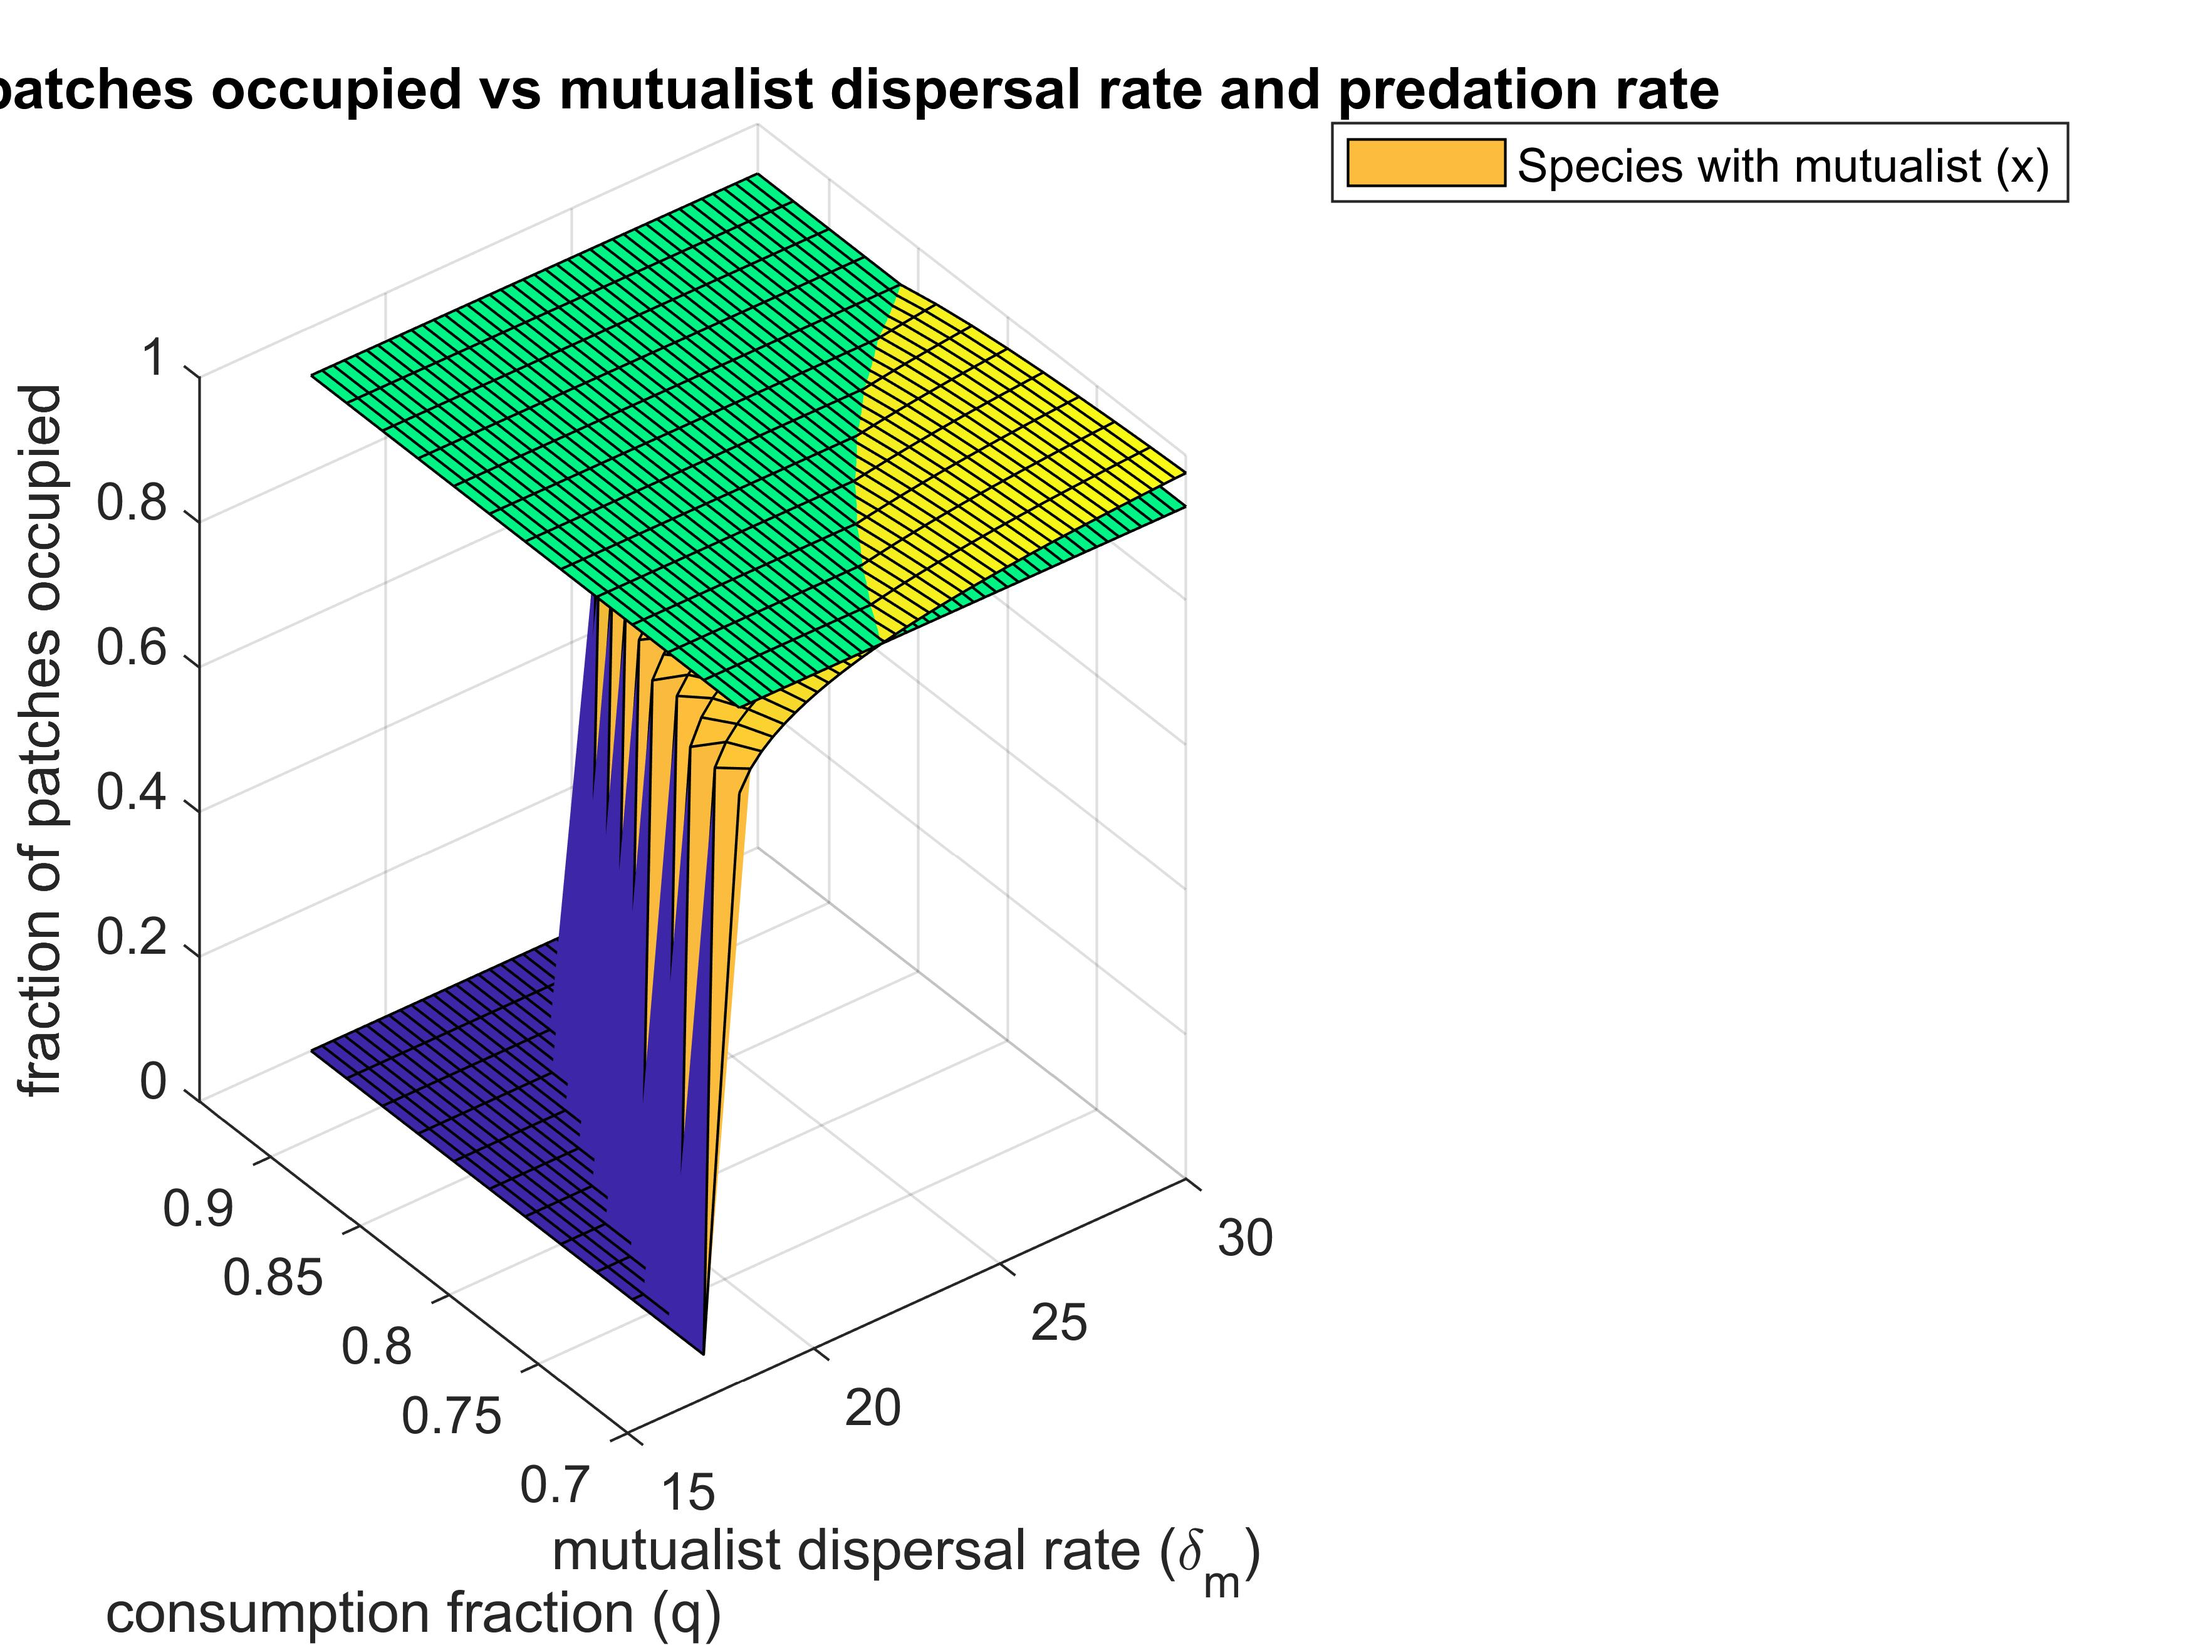
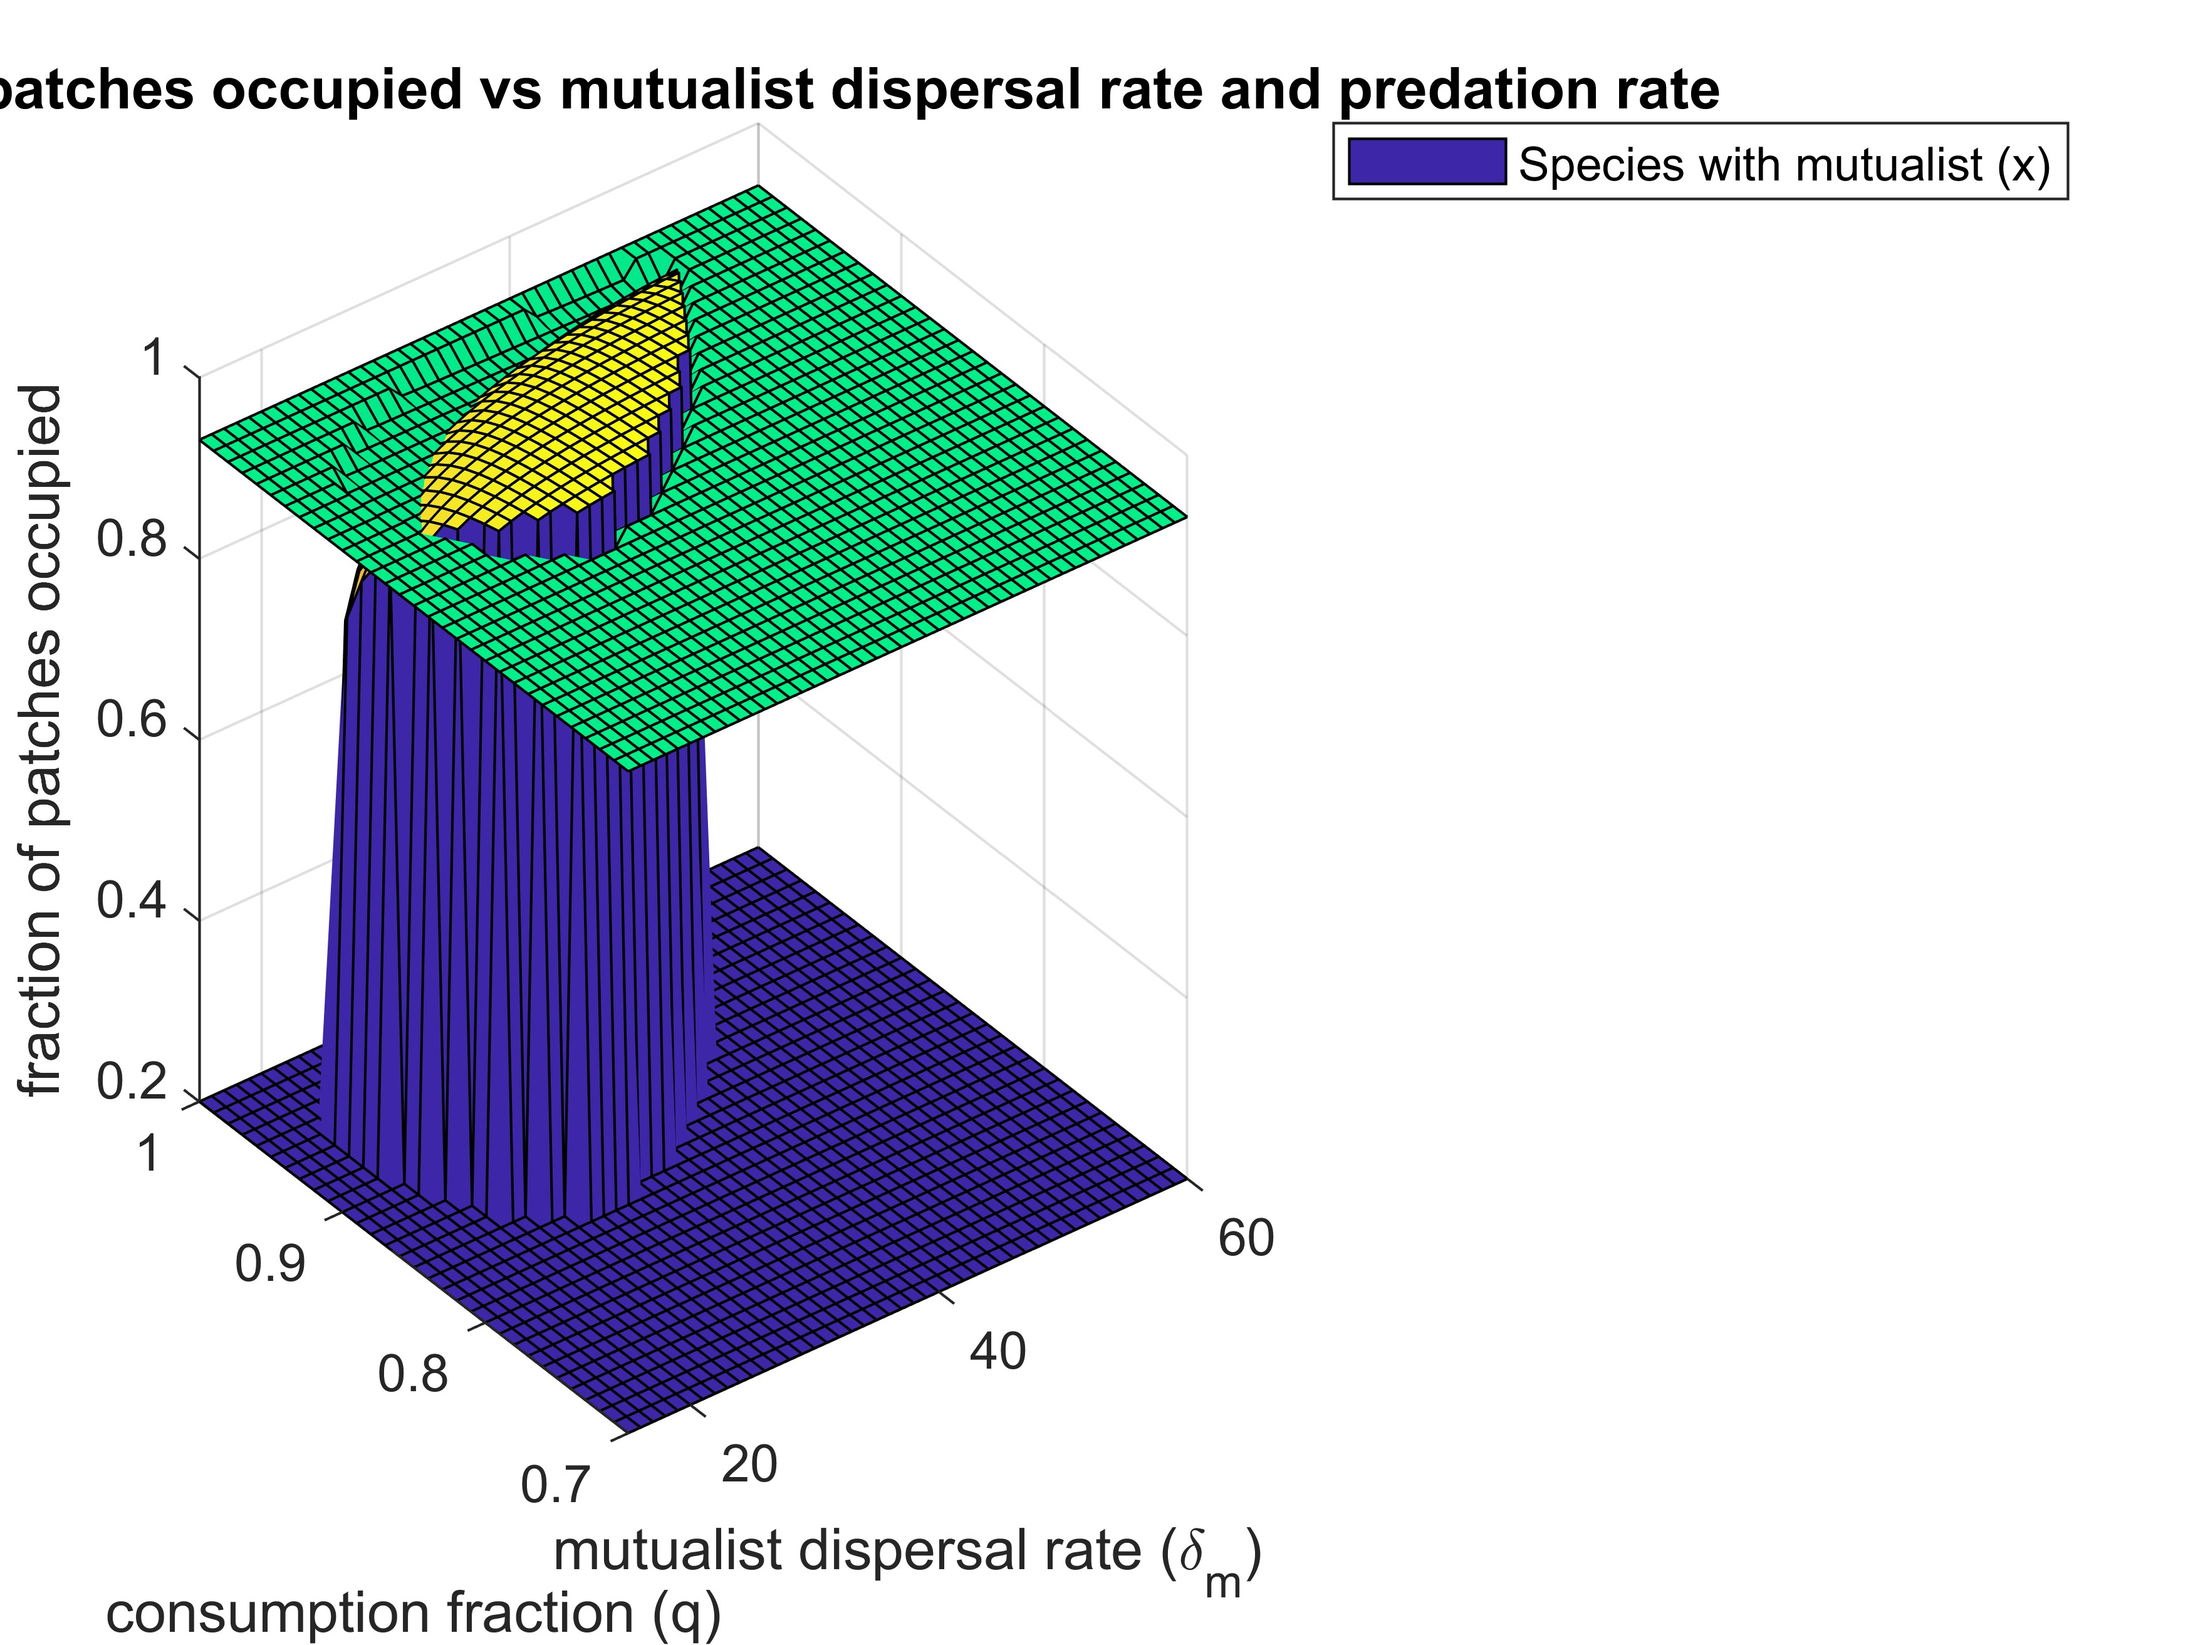
vectorisation of new equations

diff --git a/vectorized_disp_mutualism_metacommunity_allcombos.m b/vectorized_disp_mutualism_metacommunity_allcombos.m
@@ -1,0 +1,137 @@
+%%%%%%%% This code vectorizes the ODEs that need to be solved for multiple
+%%%%%%%% varying parameters (here 'q' and 'del_m')
+clear vars
+%% parameter definitions
+r_x = 5; r_y = 5;
+
+alpha_xy = 0.73; alpha_yx = 0.54; %really only affects y's local density and dispersal
+
+K_x = 200; K_y = 200; %no point touching this
+
+del_x = 0.01; del_y = 0.05;
+%q = 0.45;
+d_m = 0.3; a = 0.95;%reducing 'a' reduces dispersal rates where px > py
+del_m = 15:1:60; %I'm only not starting from zero because the computational costs are absurd
+%a = 0.51:0.01:0.81;%0.7-1.1 seems to work for this fig.
+q = 0.70:0.01:1.0;
+[Del,Q] = meshgrid(del_m,q);
+
+Del_col = Del(:); Q_col = Q(:); 
+
+num_combinations = numel(Q_col); 
+
+k_eff = 1.0; %efficiency of dispersing seeds to habitable patches
+
+z_x = 0.7; z_y = 0.7; z_m = 0.4; %scaling factors for patch extinction rates. changing z_m relative to z_x and z_m does not change qual. change results
+
+e_xmin = 0.05;e_ymin = 0.05; e_mmin = 0.16; e_mxmin = e_xmin; 
+
+tspan = [0,1000];
+
+k_x = 0.08; k_y = 0.08; k_m = 0.08; %
+
+x_init = 0.1; y_init = 0.1; m_init = 0.1;
+
+spp_init_no_m = [x_init; y_init; 0];
+spp_init_no_y = [x_init; 0; m_init];
+spp_init_no_x = [0; y_init; m_init];
+spp_init = [x_init; y_init; m_init];
+
+
+%variable collectors across parameter sweeps
+
+% occupancy_del_m = zeros(size(del_m,1),3);
+% eta_check = zeros(size(del_m,1),1);
+% mu_collector = zeros(size(del_m,1),1);
+% gamma = zeros(size(del_m,1),1);
+% cm_collector = zeros(size(del_m,1),1);
+% eta2 = zeros(size(del_m,1),1);
+% em_collector = zeros(size(del_m,1),1);
+% lambda_collector = zeros(size(del_m,1),1);
+%%
+
+options = odeset('Events',@nonNegativeEvent);
+[t_patch_no_m,local_dens_no_m] = ode45(@(t,y) vectorized_LocalSpeciesInteraction(t,y,r_x,r_y,alpha_xy,alpha_yx, K_x, K_y, del_x, del_y, Del_col', a, Q_col', d_m, num_combinations), tspan./10, repmat(spp_init_no_m,1,num_combinations));
+[t_patch_no_y,local_dens_no_y] = ode45(@(t,y) vectorized_LocalSpeciesInteraction(t,y,r_x,r_y,alpha_xy,alpha_yx, K_x, K_y, del_x, del_y, Del_col', a, Q_col', d_m, num_combinations), tspan./10, repmat(spp_init_no_y,1,num_combinations));
+[t_patch,local_dens] = ode45(@(t,y)vectorized_LocalSpeciesInteraction(t,y,r_x,r_y,alpha_xy,alpha_yx, K_x, K_y, del_x, del_y,Del_col',a, Q_col', d_m, num_combinations), tspan, repmat(spp_init, 1, num_combinations), options);
+
+num_timepoints_no_m = length(t_patch_no_m);
+num_timepoints_no_y = length(t_patch_no_y);
+num_timepoints = length(t_patch);
+ 
+local_dens_no_m_3d = reshape(local_dens_no_m(end,:),[],num_combinations);
+local_dens_no_y_3d = reshape(local_dens_no_y(end,:),[],num_combinations);
+local_dens_3d = reshape(local_dens(end,:),[],num_combinations);
+
+
+
+
+%      figure()
+%      plot(t_patch,local_dens)
+%% metacommunity dynamics
+% e_x = e_xmin..*((K_x../(local_dens_no_m_3d(1,:)))..^z_x);e_y = e_ymin..*(K_y../(local_dens_3d(2,:)))..^z_y;
+% e_mx = e_xmin..*(K_x../(local_dens_3d(1,:)))..^z_x;
+% e_m = e_mmin..*(K_x../(local_dens_3d(3,:)))..^z_m; %assume max population size of mutualist is similar to that of x and y
+
+e_x0 = e_xmin;e_y0 = e_ymin;
+e_xy = e_xmin.*((K_x./(local_dens_no_m_3d(1,:))).^z_x); e_yx = e_ymin.*((K_y./(local_dens_no_m_3d(2,:))).^z_y);
+e_xm = e_xmin.*((K_x./(local_dens_no_y_3d(1,:))).^z_x); e_ym = e_ymin;
+e_xym = e_xmin.*(K_x./(local_dens_3d(1,:))).^z_x; e_yxm = e_ymin.*(K_y./(local_dens_3d(2,:))).^z_y;
+e_mx = e_mmin.*(K_x./(local_dens_no_y_3d(3,:))).^z_m; e_mxy = e_mmin.*(K_x./(local_dens_3d(3,:))).^z_m; %assume max population size of mutualist is similar to that of x and y
+    
+%mu = e_mx - e_x;
+
+tspan_meta = [0,5000];
+
+% c_x = (k_x.*del_x)..*local_dens_no_m_3d(1,:);
+% c_y = k_y.*del_y..*local_dens_3d(2,:);
+% c_m = k_m.*Del_col'..*local_dens_3d(3,:);%repelem(del_m,numel(q)) can also be used in place of Del_col' if u feel funky
+% c_mx =(k_x.*del_x+k_m.*k_eff.*a..*(1-Q_col')..*Del_col'..*local_dens_3d(3,:))..*local_dens_3d(1,:);
+
+c_x0 = (k_x.*del_x).*K_x; c_y0 = (k_y.*del_y).*K_y; %patches with only one species
+c_xy = (k_x.*del_x).*local_dens_no_m_3d(1,:); c_yx = (k_y.*del_y).*local_dens_no_m_3d(2,:); c_mx = k_m.*Del_col'.*local_dens_no_y_3d(3,:);%patches with 2 species
+c_xm = k_x.*del_x.*local_dens_no_y_3d(1,:); c_ym = (k_y.*del_y).*K_y; % patches with one plant-one frugivore
+c_xym =(k_x.*del_x+k_m.*k_eff.*a.*(1-Q_col').*Del_col'.*local_dens_3d(3,:)).*local_dens_3d(1,:); c_yxm = k_y.*del_y.*local_dens_3d(2,:); c_mxy = k_m.*Del_col'.*local_dens_3d(3,:);%all species present
+
+
+
+
+%lambda = c_mx-c_x;
+%%
+
+%options2 = odeset('NonNegative',[1,2,3]);
+[t_syst, frac_occup] = ode45(@(t,y)vectorized_BetweenPatchDynamics_allcombos(t,y, c_x0, c_xm, c_xym, c_xy, c_y0, c_ym, c_yxm, c_yx, c_mx, c_mxy, e_x0, e_xy, e_xm, e_xym, e_y0, e_yx, e_ym, e_yxm, ...
+    e_mx, e_mxy, num_combinations), tspan_meta, local_dens_3d(:));
+
+
+num_tpts_t_syst = length(t_syst); frac_occup_3d = reshape(frac_occup(end,:), [],num_combinations);
+% 
+% eta_check = 0.5..*sqrt((((lambda..*(1+(e_m../c_m))+c_x)-(e_x+mu))../(c_x+lambda))..^2 + 4..*(e_m../c_m)..*((mu-lambda)../(c_x+lambda)));
+%      figure()
+%      plot(t_syst(end-100:end),frac_occup(end-100:end,1:2));
+
+% mu_collector(i,1) = mu;
+% cm_collector(i,1) = c_m;
+% em_collector(i,1) = e_m;
+% lambda_collector(i,1) = lambda;
+% occupancy_del_m(i, :) = frac_occup(end,:);
+% gamma(i,1) = (0.5..*((lambda.*(1+(e_m../c_m))+c_x)-(e_x+mu)))../(c_x+lambda);%0.5.*(1-((mu-e_x-e_m)./(c_x+c_m)));
+% eta2(i,:) = 4.*(e_m../c_m).*((mu-lambda)../(c_x+lambda));
+%save ("vectorized_q_del_m_varied.mat")
+%% surface plot
+figure()
+surf(Del, Q, reshape(frac_occup_3d(1,:),numel(q),numel(del_m)))
+colormap parula; freezeColors;
+hold on
+surf(Del, Q, reshape(frac_occup_3d(2,:),numel(q),numel(del_m)))
+colormap winter; freezeColors;
+%surf(Del, Q,occupancy_del_m(:,:,1))
+xlabel('mutualist dispersal rate (\delta_m)')
+ylabel ('consumption fraction (q)')
+%xlim([1.0 29.0]);
+zlabel('fraction of patches occupied')
+%xline([1.0 2.6, 10.4, 26.9],'--',{'Exploitative (x extinct)','Mutualism (y fitter)','Mutualism (x fitter)', 'Mutualism (y fitter)'})
+title('Fraction of patches occupied vs mutualist dispersal rate and predation rate')
+legend('Species with mutualist (x)')%, 'Species without mutualist (y)', 'mutualist (m)', 'location', 'best' )
+%fig1name = sprintf('occupancy_vs_del_m.jpeg');
+print('vectorized_occupancy_q_3d_vs_del_m','-djpeg','-r600')

diff --git a/vectorized_BetweenPatchDynamics_allcombos.m b/vectorized_BetweenPatchDynamics_allcombos.m
@@ -1,0 +1,12 @@
+function dydt = vectorized_BetweenPatchDynamics_allcombos(t,y, c_x0, c_xm, c_xym, c_xy, c_y0, c_ym, c_yxm, c_yx, c_mx, c_mxy, e_x0, e_xy, e_xm, e_xym, e_y0, e_yx, e_ym, e_yxm, ...
+    e_mx, e_mxy,n)
+% y(1,:) = occupied patch fraction by species x
+% y(2,:) = occupied patch fraction by species y
+% y(3,:) = occupied patch fraction by species m
+dydt = zeros(3,n);
+y = reshape(y,[],n);
+dydt(1,:) = y(1,:).*((c_x0.*(1-y(1,:))-e_x0).*(1-(y(3,:)+y(2,:))+y(2,:).*y(3,:)) + (c_xm.*(1-y(1,:))-e_xm).*(y(1,:).*y(3,:).*(1-y(2,:))) + (c_xy.*(1-y(1,:))-e_xy).*(y(1,:).*y(2,:).*(1-y(3,:))) + (c_xym.*(1-y(1,:))-e_xym).*(y(1,:).*y(2,:).*y(3,:)));%removing the c_m component
+dydt(2,:) = y(2,:).*((c_y0.*(1-y(2,:))-e_y0).*(1-(y(3,:)+y(1,:))+y(1,:).*y(3,:)) + (c_ym.*(1-y(2,:))-e_ym).*(y(2,:).*y(3,:).*(1-y(1,:))) + (c_yx.*(1-y(2,:))-e_yx).*(y(2,:).*y(1,:).*(1-y(3,:))) + (c_yxm.*(1-y(2,:))-e_yxm).*(y(2,:).*y(1,:).*y(3,:)));
+dydt(3,:) = y(3,:).*((1-y(2,:)).*(c_mx.*(y(1,:)-y(3,:))-e_mx)+y(2,:).*(c_mxy.*(y(1,:)-y(3,:))-e_mxy));
+dydt = dydt(:);
+end

diff --git a/disp_mutualism_metacommunity_allcombos.m b/disp_mutualism_metacommunity_allcombos.m
@@ -29,14 +29,14 @@ spp_init = [x_init; y_init; m_init];
 
 %variable collectors across parameter sweeps
 
-occupancy_del_m = zeros(size(del_m,1),3);
-eta_check = zeros(size(del_m,1),1);
-mu_collector = zeros(size(del_m,1),1);
-gamma = zeros(size(del_m,1),1);
-cm_collector = zeros(size(del_m,1),1);
-eta2 = zeros(size(del_m,1),1);
-em_collector = zeros(size(del_m,1),1);
-lambda_collector = zeros(size(del_m,1),1);
+% occupancy_del_m = zeros(size(del_m,1),3);
+% eta_check = zeros(size(del_m,1),1);
+% mu_collector = zeros(size(del_m,1),1);
+% gamma = zeros(size(del_m,1),1);
+% cm_collector = zeros(size(del_m,1),1);
+% eta2 = zeros(size(del_m,1),1);
+% em_collector = zeros(size(del_m,1),1);
+% lambda_collector = zeros(size(del_m,1),1);
 
 
 %% within patch dynamics
